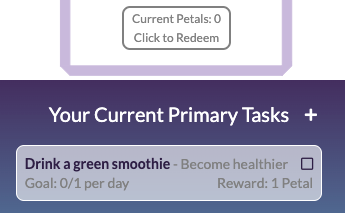
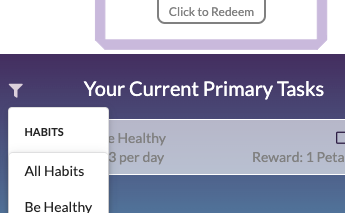
finished demo component finalized

diff --git a/frontend/src/components/demo/demo.jsx b/frontend/src/components/demo/demo.jsx
@@ -11,7 +11,7 @@ class Demo extends React.Component {
                 <div className="demo-image demo-02"></div>
                 <div className="demo-prompt">We'll start with creating some habits you want to form. Go to the upper right menu and click "Create Habits."</div>
                 <div className="demo-image demo-03"></div>
-                <div className="demo-prompt">Let's add some title and description on the habit you want to form.</div>
+                <div className="demo-prompt">Let's add some title and description on the habit you want to create.</div>
                 <div className="demo-image demo-04"></div>
                 <div className="demo-prompt">Currently there are no tasks assigned. Let's add some associated tasks. You can type in the textbox and either enter or click the + button to add.</div>
                 <div className="demo-image demo-05"></div>
@@ -23,7 +23,7 @@ class Demo extends React.Component {
                 <div className="demo-image demo-08"></div>
                 <div className="demo-prompt">All your tasks will show on the Tasks page. You can drag and drop to put the highest priority tasks on top.</div>
                 <div className="demo-image demo-09"></div>
-                <div className="demo-prompt">Your home page will show the top three priority tasks that you want to focus on, along with a jar to collect your petals.</div>
+                <div className="demo-prompt">Your home page will show a jar to collect your petals. You can select from upper left whether you want to view all your habits, or tasks per a specific habit.</div>
                 <div className="demo-image demo-10"></div>
                 <div className="demo-prompt">You can create your custom reward in your Dashboard page. Choose what you want to compensate yourself for your tasks completed and how many petals it'll cost!</div>
                 <div className="demo-image demo-11"></div>

diff --git a/frontend/src/components/modal/modal.jsx b/frontend/src/components/modal/modal.jsx
@@ -8,11 +8,8 @@ import CreateTaskContainer from '../task/create_task_container';
 import DeleteHabitContainer from '../habit/delete_habit_container';
 import RewardsUse from '../rewards_use';
 import {CreateRewards, EditReward} from '../reward_forms';
-<<<<<<< HEAD
 import Demo from '../demo';
-=======
-import SortingModal from "../loading_screens/sorting_modal";
->>>>>>> a4874c474cd7cd75f815e0329a4d4726a432e386
+import SortingModal from '../../components/loading_screens/sorting_modal';
 
 function Modal({ modal, closeModal }) {
     if (!modal) return null;
@@ -44,15 +41,12 @@ function Modal({ modal, closeModal }) {
         case 'editReward':
             component = <EditReward reward={modal.object}/>;
             break; 
-<<<<<<< HEAD
-        case 'demo':
-            component = <Demo />;
-            break;
-=======
         case "autoSort":
             component = <SortingModal/>
             break; 
->>>>>>> a4874c474cd7cd75f815e0329a4d4726a432e386
+        case "demo":
+            component = <Demo />
+            break;
         default:
             return null;
     }
